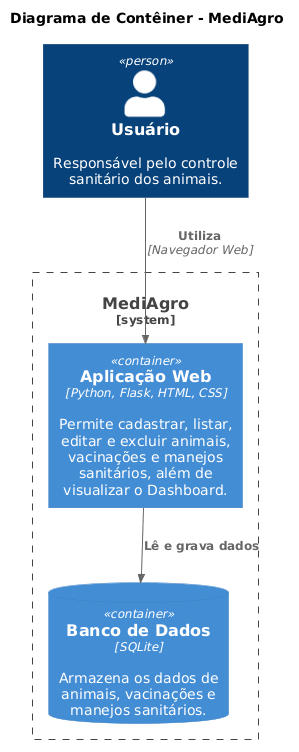
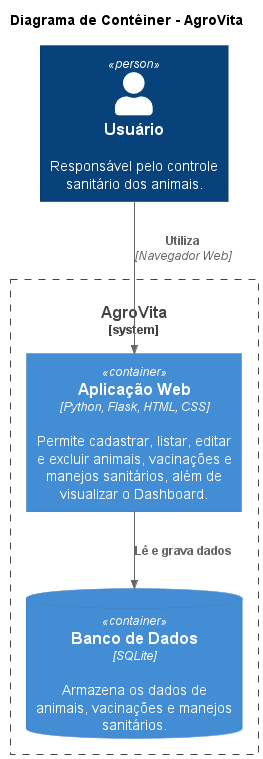
refactor: renomeia projeto para AgroVita

diff --git a/templates/base.html b/templates/base.html
@@ -29,7 +29,7 @@
                 <span class="logo-icon"></span>
 
                 <div>
-                    <h1>MediAgro</h1>
+                    <h1>AgroVita</h1>
                     <span>Controle Sanitário</span>
                 </div>
 

diff --git a/README.md b/README.md
@@ -1,11 +1,11 @@
-# MediAgro — Controle de Manejo Sanitário e Vacinação
+# AgroVita — Controle de Manejo Sanitário e Vacinação
 🌐 **Aplicação online:** https://laisy2k.pythonanywhere.com/
 
 Sistema web desenvolvido para auxiliar no controle sanitário de animais, permitindo organizar informações sobre animais, vacinações e manejos sanitários em um único ambiente.
 
 ## Sobre o projeto
 
-O MediAgro foi desenvolvido com o objetivo de facilitar o registro e acompanhamento de informações relacionadas à saúde e ao manejo dos animais de uma propriedade rural.
+O AgroVita foi desenvolvido com o objetivo de facilitar o registro e acompanhamento de informações relacionadas à saúde e ao manejo dos animais de uma propriedade rural.
 
 O sistema permite manter os registros organizados, acompanhar vacinações e consultar informações por meio de um Dashboard.
 
@@ -111,4 +111,4 @@ O desenvolvimento foi organizado utilizando Issues, branches, Pull Requests e um
 
 ## Desenvolvedora
 
-**Kezia Laís** — Desenvolvimento do projeto MediAgro.
+**Kezia Laís** — Desenvolvimento do projeto AgroVita.
